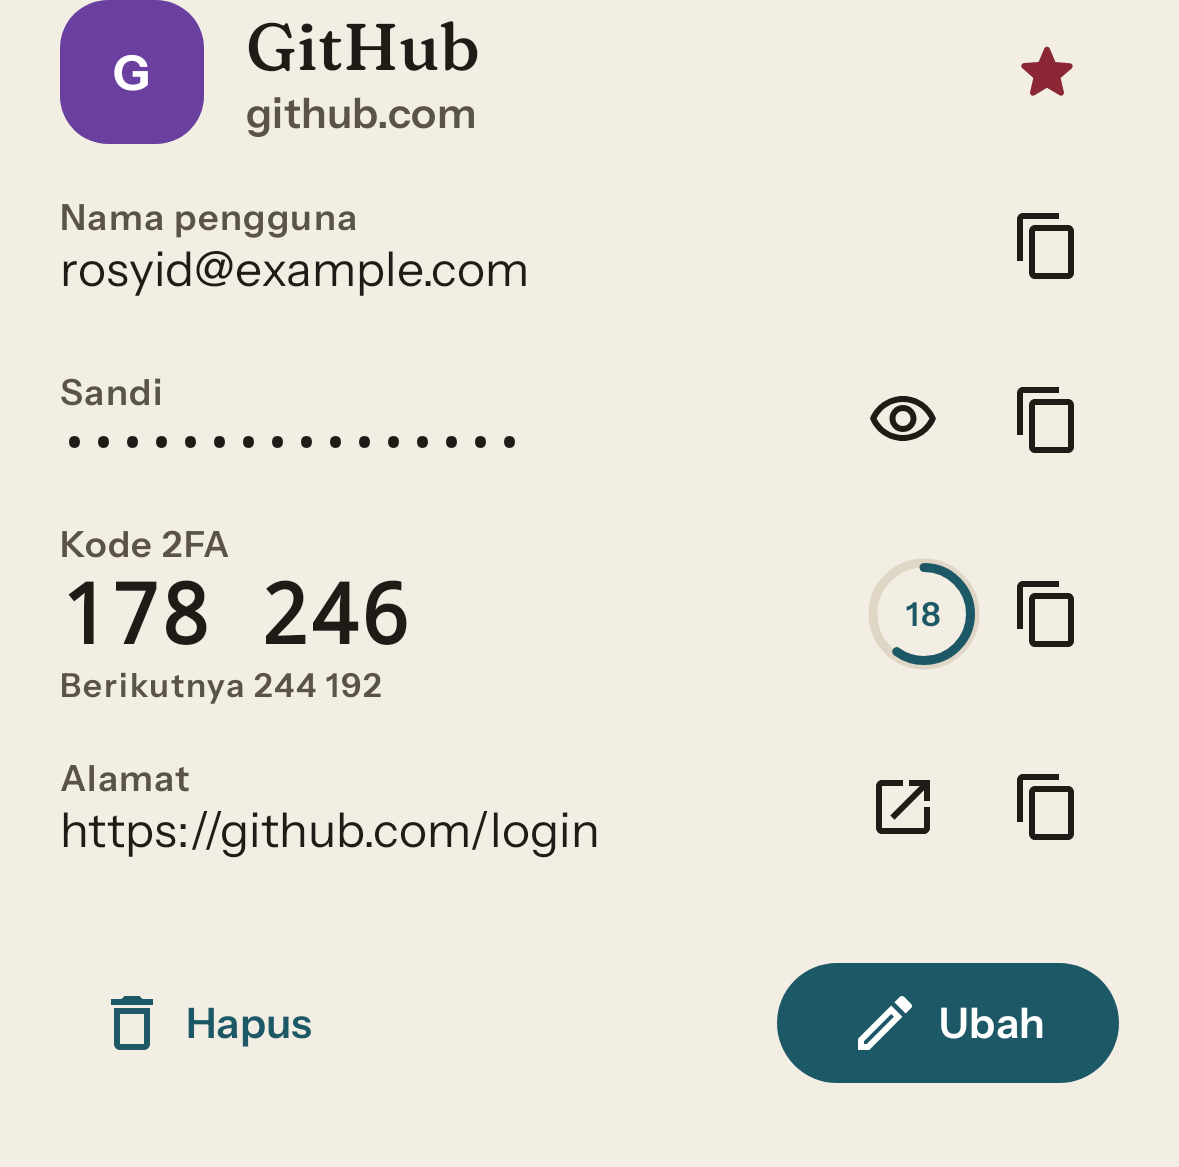
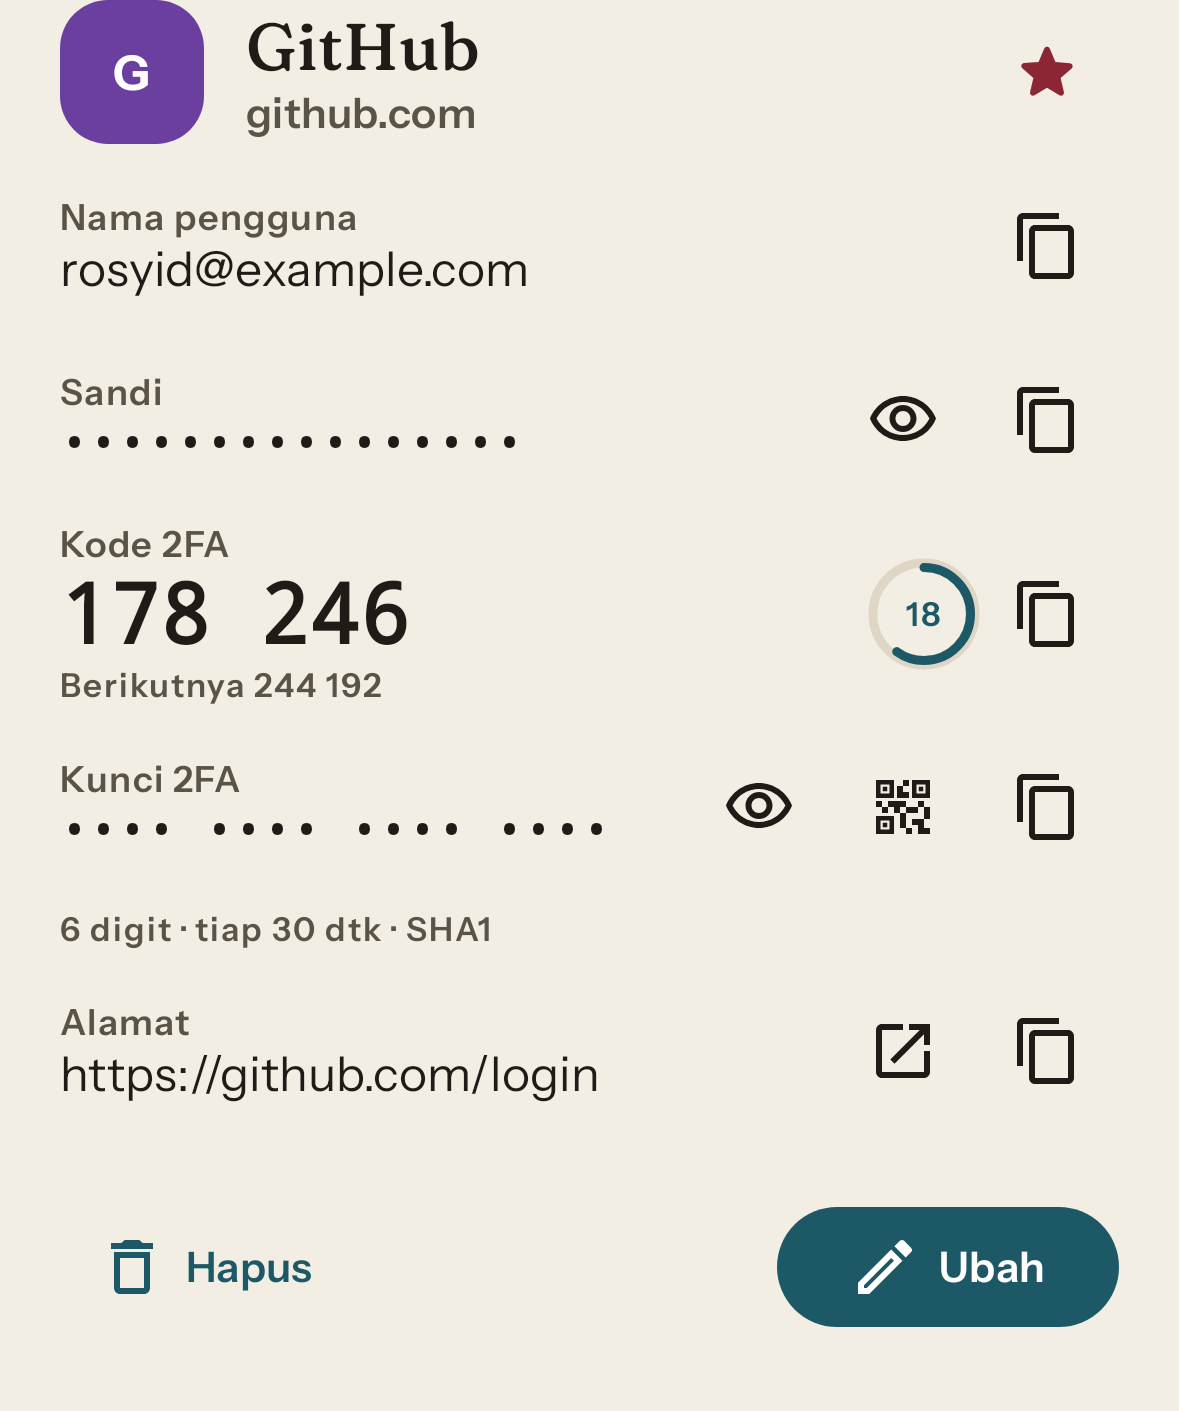
feat(sandi): kunci rahasia 2FA bisa ditampilkan, disalin, dan dijadikan QR
Di detail item Sandi, di bawah kode 2FA kini ada baris "Kunci 2FA":
- tersembunyi secara bawaan; tombol mata menampilkan kunci base32 (dikelompokkan per 4 huruf);
- salin memakai papan klip aman yang dibersihkan otomatis;
- tombol QR menampilkan URI otpauth:// (format Key URI) untuk memindahkan akun ke aplikasi
  authenticator lain — dialognya FLAG_SECURE, tidak bisa di-screenshot;
- info 6/8 digit, periode, dan algoritma.

Totp.otpauthUri() teruji bolak-balik dengan parser yang sudah ada (penerbit, akun, SHA256, 8
digit, 60 dtk). Komponen QrCode dipindah ke core/designsystem agar dipakai bersama MFA & Sandi.

Tes baru: TotpUriTest, SandiTotpKeyTest. Screenshot sandi_item_light direkam ulang.

diff --git a/feature/sandi/src/main/kotlin/com/rosyidputrar/taskify/feature/sandi/SandiItemSheets.kt b/feature/sandi/src/main/kotlin/com/rosyidputrar/taskify/feature/sandi/SandiItemSheets.kt
@@ -1,5 +1,11 @@
 package com.rosyidputrar.taskify.feature.sandi
 
+import androidx.compose.runtime.remember
+import com.rosyidputrar.taskify.core.domain.sandi.TotpConfig
+import com.rosyidputrar.taskify.core.designsystem.component.QrCode
+import androidx.compose.ui.window.SecureFlagPolicy
+import androidx.compose.ui.window.DialogProperties
+import androidx.compose.material.icons.outlined.QrCode2
 import androidx.compose.foundation.layout.Arrangement
 import androidx.compose.foundation.layout.Column
 import androidx.compose.foundation.layout.Row
@@ -114,6 +120,7 @@ fun ItemDetail(item: SandiItem, now: Long, actions: SandiActions, onEdit: () -> 
                     IconButton(onClick = { actions.copyCode(item, w.code) }) { Icon(Icons.Outlined.ContentCopy, contentDescription = "Salin kode") }
                 }
             }
+            TotpKeyRow(cfg, issuer = p.title.ifBlank { displayHost(p.url) }, account = p.username, actions = actions)
         }
         val safe = safeUrl(p.url)
         if (p.url.isNotBlank()) FieldRow("Alamat", p.url, extra = {
@@ -139,6 +146,52 @@ fun ItemDetail(item: SandiItem, now: Long, actions: SandiActions, onEdit: () -> 
                 TextButton(onClick = { confirmDelete = false; onDelete() }) { Text("Hapus", color = MaterialTheme.colorScheme.error) }
             },
             dismissButton = { TextButton(onClick = { confirmDelete = false }) { Text("Batal") } },
+        )
+    }
+}
+
+/**
+ * Kunci rahasia 2FA (yang menghasilkan kode tiap 30 dtk): tersembunyi sampai diminta, bisa
+ * disalin (papan klip dibersihkan otomatis), atau ditampilkan sebagai QR `otpauth://` untuk
+ * dipindahkan ke aplikasi authenticator lain. Tidak disimpan di saved-state (`remember` biasa).
+ */
+@Composable
+internal fun TotpKeyRow(cfg: TotpConfig, issuer: String, account: String, actions: SandiActions) {
+    var reveal by remember(cfg.secret) { mutableStateOf(false) }
+    var qr by remember(cfg.secret) { mutableStateOf(false) }
+    FieldRow(
+        "Kunci 2FA",
+        if (reveal) Totp.formatSecret(cfg.secret) else "•••• •••• •••• ••••",
+        mono = true,
+        extra = {
+            IconButton(onClick = { reveal = !reveal; actions.touch() }) {
+                Icon(if (reveal) Icons.Outlined.VisibilityOff else Icons.Outlined.Visibility, contentDescription = if (reveal) "Sembunyikan kunci 2FA" else "Tampilkan kunci 2FA")
+            }
+            IconButton(onClick = { qr = true; actions.touch() }) { Icon(Icons.Outlined.QrCode2, contentDescription = "Tampilkan QR kunci 2FA") }
+        },
+    ) { actions.copy("Kunci 2FA", cfg.secret) }
+    Text(
+        "${cfg.digits} digit · tiap ${cfg.period} dtk · ${cfg.algorithm.name}",
+        style = MaterialTheme.typography.labelSmall,
+        color = MaterialTheme.colorScheme.onSurfaceVariant,
+    )
+    if (qr) {
+        AlertDialog(
+            onDismissRequest = { qr = false },
+            // Jendela dialog sendiri: tetap tidak bisa di-screenshot / direkam.
+            properties = DialogProperties(securePolicy = SecureFlagPolicy.SecureOn),
+            title = { Text("QR kunci 2FA") },
+            text = {
+                Column(horizontalAlignment = Alignment.CenterHorizontally, verticalArrangement = Arrangement.spacedBy(12.dp)) {
+                    QrCode(Totp.otpauthUri(cfg, issuer, account), size = 220.dp, description = "Kode QR kunci 2FA ${issuer.ifBlank { account }}")
+                    Text(
+                        "Pindai dengan aplikasi authenticator lain untuk memindahkan akun ini. Siapa pun yang melihat QR ini bisa membuat kode 2FA-nya — jangan tunjukkan ke orang lain.",
+                        style = MaterialTheme.typography.bodySmall,
+                        color = MaterialTheme.colorScheme.onSurfaceVariant,
+                    )
+                }
+            },
+            confirmButton = { TextButton(onClick = { qr = false }) { Text("Tutup") } },
         )
     }
 }

diff --git a/app/src/test/kotlin/com/rosyidputrar/taskify/SandiTotpKeyTest.kt b/app/src/test/kotlin/com/rosyidputrar/taskify/SandiTotpKeyTest.kt
@@ -1,0 +1,54 @@
+package com.rosyidputrar.taskify
+
+import androidx.compose.ui.test.junit4.createComposeRule
+import androidx.compose.ui.test.onNodeWithContentDescription
+import androidx.compose.ui.test.onNodeWithText
+import androidx.compose.ui.test.performClick
+import androidx.compose.ui.test.performScrollTo
+import androidx.test.ext.junit.runners.AndroidJUnit4
+import com.rosyidputrar.taskify.core.designsystem.theme.TaskifyTheme
+import com.rosyidputrar.taskify.feature.sandi.ItemDetail
+import com.rosyidputrar.taskify.feature.sandi.SandiActions
+import org.junit.Rule
+import org.junit.Test
+import org.junit.runner.RunWith
+import org.robolectric.annotation.Config
+import kotlin.test.assertEquals
+
+/** Kunci rahasia 2FA bisa dilihat, disalin, dan dijadikan QR — tersembunyi secara bawaan. */
+@RunWith(AndroidJUnit4::class)
+@Config(qualifiers = "w393dp-h852dp-xxhdpi")
+class SandiTotpKeyTest {
+    @get:Rule val compose = createComposeRule()
+
+    private class Recorder : SandiActions by SampleSandi.Actions {
+        val copies = mutableListOf<Triple<String, String, Boolean>>()
+        override fun copy(what: String, text: String, secret: Boolean) { copies += Triple(what, text, secret) }
+    }
+
+    private val github = SampleSandi.items[0] // kunci JBSWY3DPEHPK3PXP
+
+    @Test fun keyIsHiddenUntilRevealed() {
+        compose.setContent { TaskifyTheme { ItemDetail(github, SampleSandi.NOW, SampleSandi.Actions, onEdit = {}, onDelete = {}) } }
+        compose.onNodeWithText("JBSW Y3DP EHPK 3PXP").assertDoesNotExist()
+        compose.onNodeWithContentDescription("Tampilkan kunci 2FA").performScrollTo().performClick()
+        compose.onNodeWithText("JBSW Y3DP EHPK 3PXP").assertExists()
+        compose.onNodeWithContentDescription("Sembunyikan kunci 2FA").performClick()
+        compose.onNodeWithText("JBSW Y3DP EHPK 3PXP").assertDoesNotExist()
+    }
+
+    @Test fun copyUsesSelfClearingClipboard() {
+        val actions = Recorder()
+        compose.setContent { TaskifyTheme { ItemDetail(github, SampleSandi.NOW, actions, onEdit = {}, onDelete = {}) } }
+        compose.onNodeWithContentDescription("Salin Kunci 2FA").performScrollTo().performClick()
+        assertEquals(Triple("Kunci 2FA", "JBSWY3DPEHPK3PXP", true), actions.copies.single())
+    }
+
+    @Test fun qrForOtherAuthenticators() {
+        compose.setContent { TaskifyTheme { ItemDetail(github, SampleSandi.NOW, SampleSandi.Actions, onEdit = {}, onDelete = {}) } }
+        compose.onNodeWithContentDescription("Tampilkan QR kunci 2FA").performScrollTo().performClick()
+        compose.onNodeWithContentDescription("Kode QR kunci 2FA GitHub").assertExists()
+        compose.onNodeWithText("Tutup").performClick()
+        compose.onNodeWithContentDescription("Kode QR kunci 2FA GitHub").assertDoesNotExist()
+    }
+}

diff --git a/core/domain/src/test/kotlin/com/rosyidputrar/taskify/core/domain/TotpUriTest.kt b/core/domain/src/test/kotlin/com/rosyidputrar/taskify/core/domain/TotpUriTest.kt
@@ -1,0 +1,33 @@
+package com.rosyidputrar.taskify.core.domain
+
+import com.rosyidputrar.taskify.core.domain.sandi.Totp
+import com.rosyidputrar.taskify.core.domain.sandi.TotpAlgorithm
+import com.rosyidputrar.taskify.core.domain.sandi.TotpConfig
+import org.junit.Test
+import kotlin.test.assertEquals
+import kotlin.test.assertTrue
+
+/** QR "pindahkan ke authenticator lain" harus terbaca kembali persis sama. */
+class TotpUriTest {
+    @Test fun standardKeyUri() {
+        val uri = Totp.otpauthUri(TotpConfig("JBSWY3DPEHPK3PXP"), "GitHub", "rosyid@example.com")
+        assertEquals("otpauth://totp/GitHub:rosyid%40example.com?secret=JBSWY3DPEHPK3PXP&issuer=GitHub&algorithm=SHA1&digits=6&period=30", uri)
+    }
+
+    @Test fun roundTripsThroughParser() {
+        val cfg = TotpConfig("GEZDGNBVGY3TQOJQGEZDGNBVGY3TQOJQ", digits = 8, period = 60, algorithm = TotpAlgorithm.SHA256)
+        val parsed = Totp.parseInput(Totp.otpauthUri(cfg, "Bank Jago: Mobile", "rosyid putra"))!!
+        assertEquals(cfg, parsed.config)
+        assertEquals("Bank Jago Mobile", parsed.name) // ":" di penerbit merusak label → dibuang
+        assertEquals("rosyid putra", parsed.username)
+        // Kode yang dihasilkan dari QR sama dengan kode di Taskify.
+        assertEquals(Totp.window(cfg, 1_763_175_612_000L)!!.code, Totp.window(parsed.config, 1_763_175_612_000L)!!.code)
+    }
+
+    @Test fun withoutIssuerOrAccount() {
+        val noIssuer = Totp.parseInput(Totp.otpauthUri(TotpConfig("JBSWY3DPEHPK3PXP"), "", "akun"))!!
+        assertEquals("akun", noIssuer.username)
+        val nothing = Totp.otpauthUri(TotpConfig("JBSWY3DPEHPK3PXP"), " ", "")
+        assertTrue(nothing.startsWith("otpauth://totp/Taskify?secret="))
+    }
+}

diff --git a/core/domain/src/main/kotlin/com/rosyidputrar/taskify/core/domain/sandi/Totp.kt b/core/domain/src/main/kotlin/com/rosyidputrar/taskify/core/domain/sandi/Totp.kt
@@ -133,6 +133,30 @@ object Totp {
         },
     )
 
+    /**
+     * URI `otpauth://totp/Penerbit:akun?secret=…` (format Key URI Google Authenticator) — untuk
+     * memindahkan kunci ke aplikasi authenticator lain lewat QR. Kebalikan dari [parseInput].
+     */
+    fun otpauthUri(config: TotpConfig, issuer: String, account: String): String {
+        fun enc(text: String) = java.net.URLEncoder.encode(text, "UTF-8").replace("+", "%20")
+        val i = issuer.trim().replace(":", "")
+        val a = account.trim()
+        val label = when {
+            i.isNotEmpty() && a.isNotEmpty() -> enc(i) + ":" + enc(a)
+            i.isNotEmpty() -> enc(i)
+            else -> enc(a.ifEmpty { "Taskify" })
+        }
+        val secret = config.secret.uppercase().replace(Regex("[\\s=-]"), "")
+        val query = buildList {
+            add("secret=$secret")
+            if (i.isNotEmpty()) add("issuer=" + enc(i))
+            add("algorithm=${config.algorithm.name}")
+            add("digits=${config.digits}")
+            add("period=${config.period}")
+        }
+        return "otpauth://totp/$label?" + query.joinToString("&")
+    }
+
     /** Kunci base32 saja, atau URI `otpauth://totp/Issuer:akun?secret=…`. */
     fun parseInput(text: String): TotpInput? {
         val trimmed = text.trim()

diff --git a/core/designsystem/src/main/kotlin/com/rosyidputrar/taskify/core/designsystem/component/QrCode.kt b/core/designsystem/src/main/kotlin/com/rosyidputrar/taskify/core/designsystem/component/QrCode.kt
@@ -1,4 +1,4 @@
-package com.rosyidputrar.taskify.feature.auth.component
+package com.rosyidputrar.taskify.core.designsystem.component
 
 import androidx.compose.foundation.Canvas
 import androidx.compose.foundation.layout.size
@@ -22,7 +22,7 @@ import com.google.zxing.qrcode.decoder.ErrorCorrectionLevel
  * server. Selalu hitam di atas putih supaya terbaca kamera di tema gelap sekalipun.
  */
 @Composable
-fun QrCode(content: String, modifier: Modifier = Modifier, size: Dp = 200.dp) {
+fun QrCode(content: String, modifier: Modifier = Modifier, size: Dp = 200.dp, description: String = "Kode QR untuk aplikasi authenticator") {
     val matrix = remember(content) {
         QRCodeWriter().encode(
             content,
@@ -32,7 +32,7 @@ fun QrCode(content: String, modifier: Modifier = Modifier, size: Dp = 200.dp) {
             mapOf(EncodeHintType.ERROR_CORRECTION to ErrorCorrectionLevel.M, EncodeHintType.MARGIN to 2),
         )
     }
-    Canvas(modifier.size(size).semantics { contentDescription = "Kode QR untuk aplikasi authenticator" }) {
+    Canvas(modifier.size(size).semantics { contentDescription = description }) {
         drawRect(Color.White)
         val cell = this.size.width / matrix.width
         for (y in 0 until matrix.height) {

diff --git a/feature/auth/src/main/kotlin/com/rosyidputrar/taskify/feature/auth/AuthenticatorSettings.kt b/feature/auth/src/main/kotlin/com/rosyidputrar/taskify/feature/auth/AuthenticatorSettings.kt
@@ -52,7 +52,7 @@ import com.rosyidputrar.taskify.core.designsystem.theme.TaskifyTextStyles
 import com.rosyidputrar.taskify.core.domain.auth.translateMfaError
 import com.rosyidputrar.taskify.feature.auth.component.CodeInput
 import com.rosyidputrar.taskify.feature.auth.component.ErrorText
-import com.rosyidputrar.taskify.feature.auth.component.QrCode
+import com.rosyidputrar.taskify.core.designsystem.component.QrCode
 import kotlinx.coroutines.CancellationException
 import kotlinx.coroutines.flow.MutableStateFlow
 import kotlinx.coroutines.flow.StateFlow

diff --git a/feature/auth/src/main/kotlin/com/rosyidputrar/taskify/feature/auth/MfaScreen.kt b/feature/auth/src/main/kotlin/com/rosyidputrar/taskify/feature/auth/MfaScreen.kt
@@ -60,7 +60,7 @@ import com.rosyidputrar.taskify.core.domain.auth.translateMfaError
 import com.rosyidputrar.taskify.feature.auth.component.AuthScaffold
 import com.rosyidputrar.taskify.feature.auth.component.CodeInput
 import com.rosyidputrar.taskify.feature.auth.component.ErrorText
-import com.rosyidputrar.taskify.feature.auth.component.QrCode
+import com.rosyidputrar.taskify.core.designsystem.component.QrCode
 import kotlinx.coroutines.flow.MutableStateFlow
 import kotlinx.coroutines.flow.StateFlow
 import kotlinx.coroutines.flow.asStateFlow
